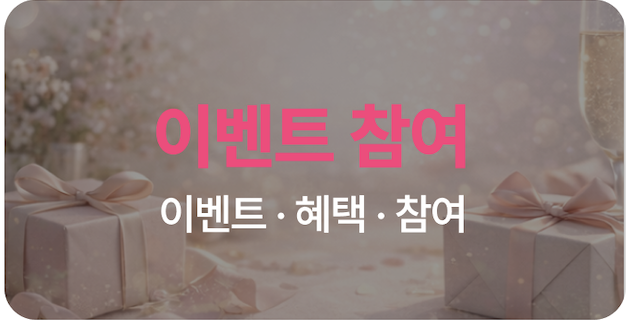
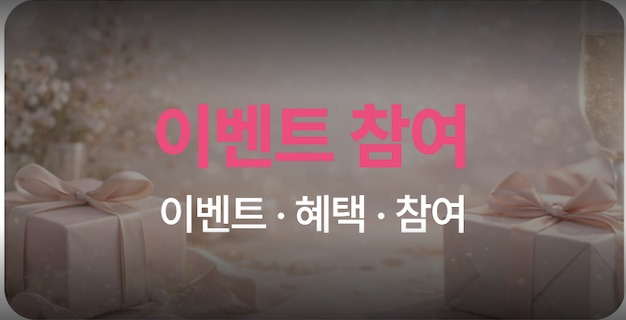
fix: 커뮤니티 카드 이미지 상하단 어둡게 편집
Pillow로 4개 이미지 상단/하단 30%에 검정 그라디언트 적용
(최대 alpha 160) — 카드 경계 흰선 완전 해소

diff --git a/CLAUDE.md b/CLAUDE.md
@@ -59,6 +59,10 @@ firebase deploy --only hosting
 
 ## 작업 로그
 
+### 2026-04-02: 커뮤니티 카드 이미지 상하단 어둡게 편집 (`fix/community-card-image-darkening`)
+- Pillow로 4개 이미지 상단 30%, 하단 30% 검정 그라디언트 적용 (최대 alpha 160)
+- 이미지 자체가 어두워져서 카드 경계 흰선 완전 해소
+
 ### 2026-04-02: 커뮤니티 카드 상하단 그라디언트 오버레이 추가 (`fix/community-card-gradient-overlay`)
 - 각 카드 img 위에 linear-gradient 오버레이 추가 (상단 15%, 하단 25% 어둡게)
 - 이미지 상하단 밝은 부분이 카드 경계에서 흰선으로 보이는 문제 완화
